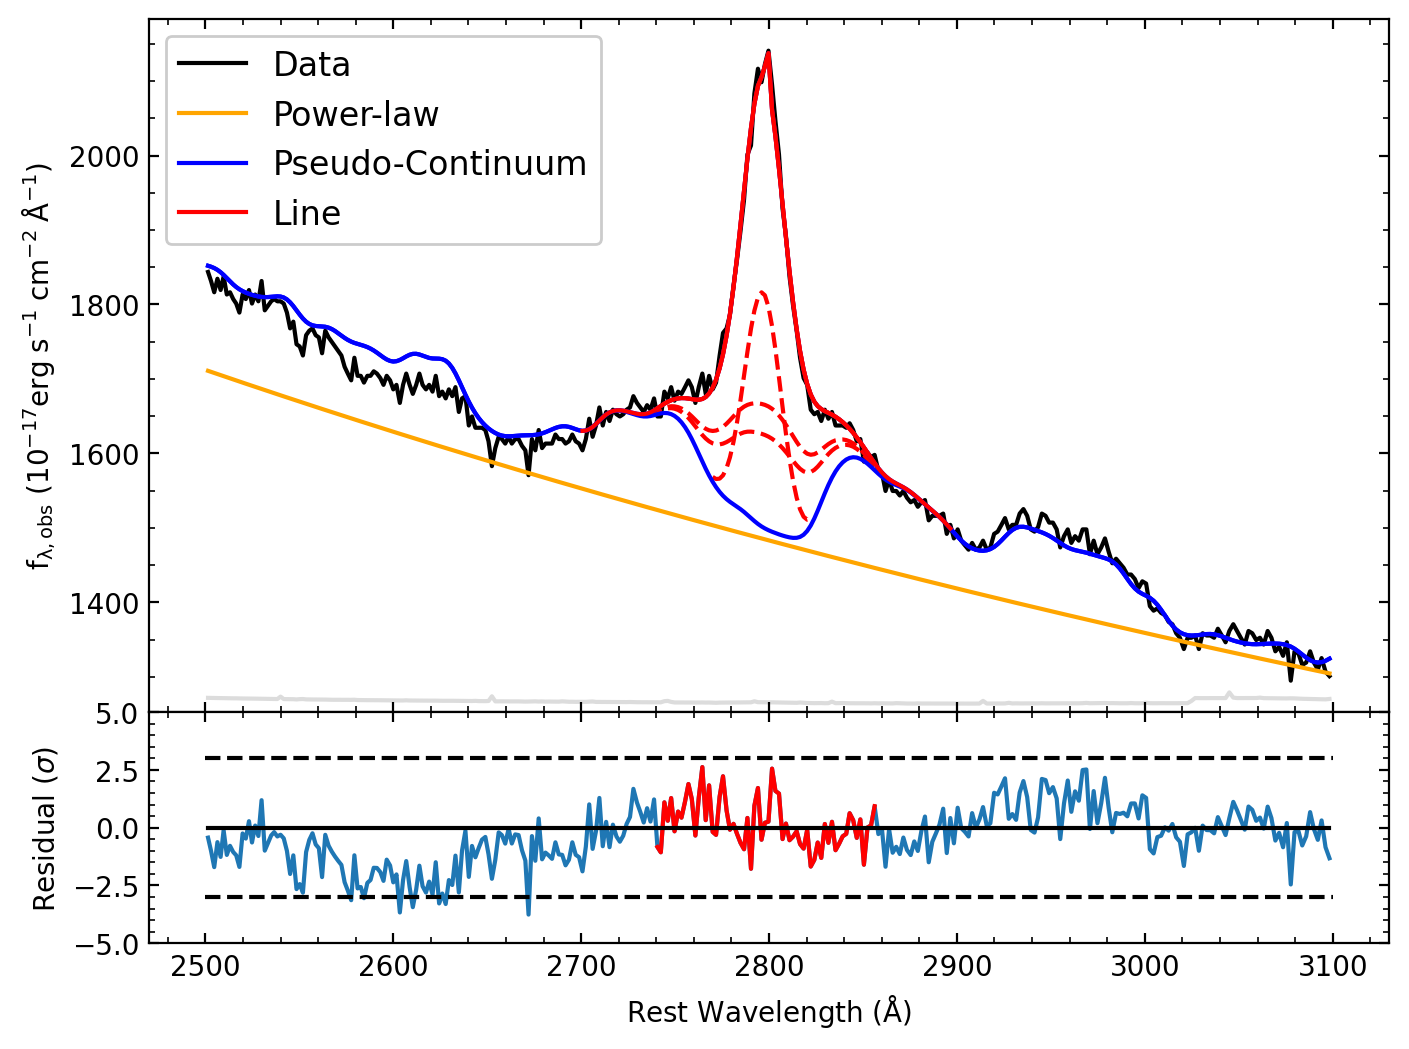
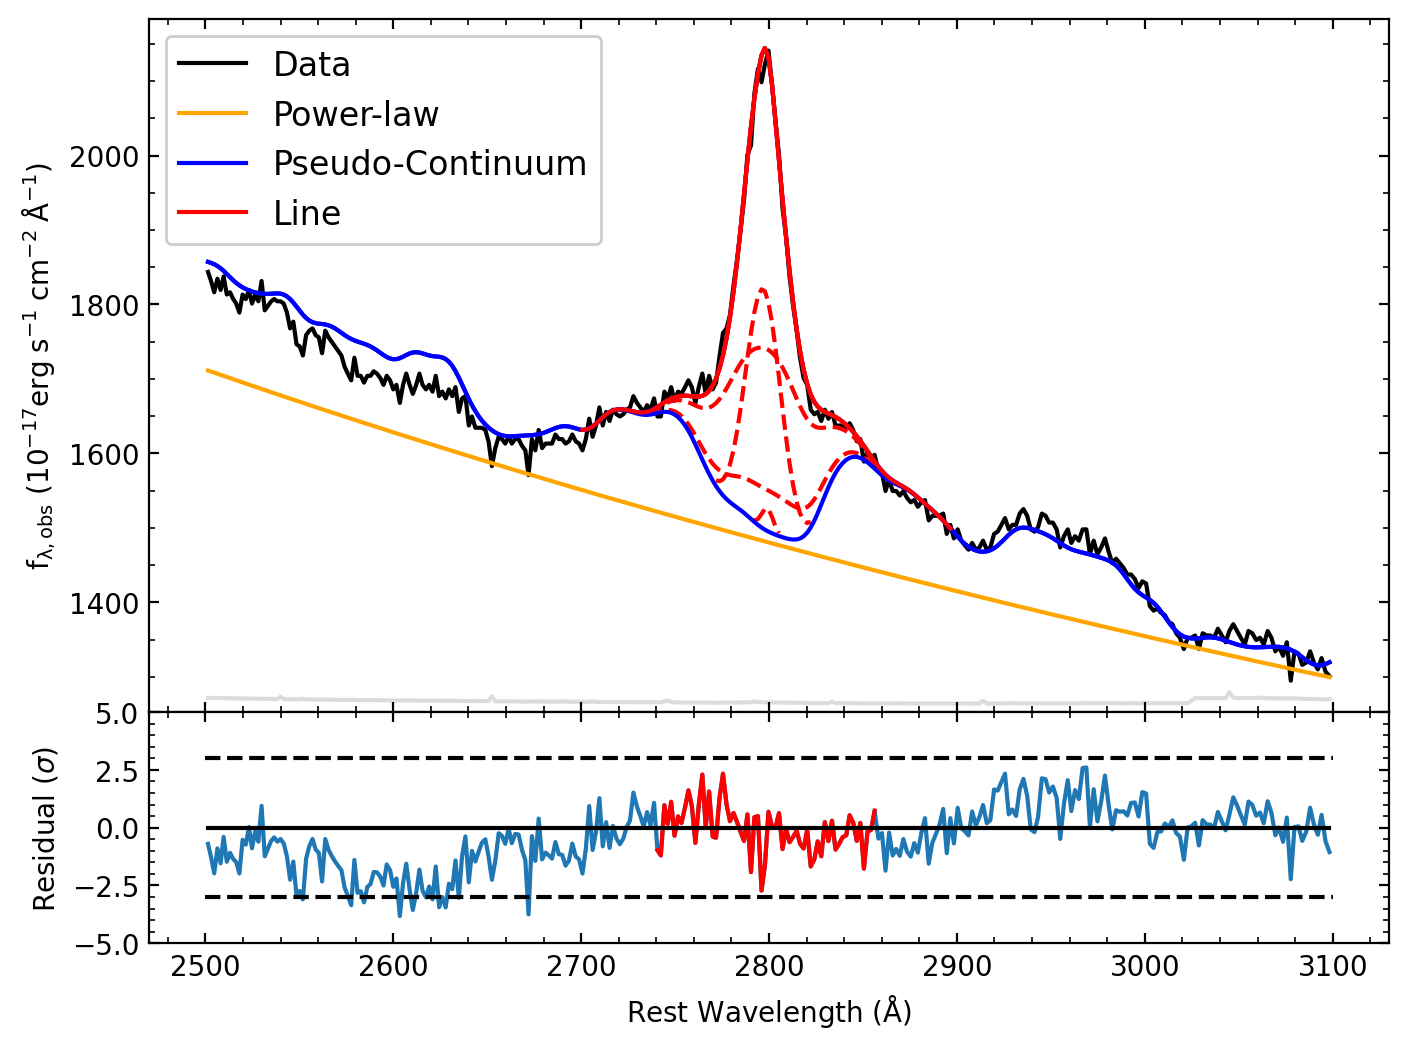
Expand parameter range

diff --git a/PyQSpecFit.py b/PyQSpecFit.py
@@ -294,15 +294,15 @@ class PyQSpecFit():
              pp[8:11]: norm, Te and Tau_e for the Balmer continuum at <3646 A
             """
         
-            tmp_parinfo = [{'name':'PL_Norm', 'limits': (0, 1E3), 'init_value': 1., 'fixed':False}, 
-                           {'name':'PL_Slope', 'limits': (-5, 3), 'init_value': 0., 'fixed':False}, 
-                           {'name':'Fe_UV_Norm', 'limits': (0., 1E3), 'init_value': 0., 'fixed':True}, 
-                           {'name':'Fe_UV_FWHM', 'limits': (1E3, 1E4), 'init_value': 3000., 'fixed':True}, 
+            tmp_parinfo = [{'name':'PL_Norm', 'limits': (0, 1E4), 'init_value': 1., 'fixed':False}, 
+                           {'name':'PL_Slope', 'limits': (-10, 5), 'init_value': 0., 'fixed':False}, 
+                           {'name':'Fe_UV_Norm', 'limits': (0., 1E4), 'init_value': 1E-6, 'fixed':True}, 
+                           {'name':'Fe_UV_FWHM', 'limits': (1E3, 2E4), 'init_value': 3000., 'fixed':True}, 
                            {'name':'Fe_UV_del', 'limits': (-0.02, 0.02), 'init_value': 0., 'fixed':True},
-                           {'name':'Fe_Opt_Norm', 'limits': (0., 1E3), 'init_value': 0., 'fixed':True}, 
-                           {'name':'Fe_Opt_FWHM', 'limits': (1E3, 1E4), 'init_value': 3000., 'fixed':True}, 
+                           {'name':'Fe_Opt_Norm', 'limits': (0., 1E4), 'init_value': 1E-6, 'fixed':True}, 
+                           {'name':'Fe_Opt_FWHM', 'limits': (1E3, 2E4), 'init_value': 3000., 'fixed':True}, 
                            {'name':'Fe_Opt_del', 'limits': (-0.02, 0.02), 'init_value': 0., 'fixed':True},
-                           {'name':'Balmer_norm', 'limits': (0., 10.), 'init_value': 0., 'fixed':True}, 
+                           {'name':'Balmer_norm', 'limits': (0., 10.), 'init_value': 1E-6, 'fixed':True}, 
                            {'name':'Balmer_Te', 'limits': (1E3, 5E4), 'init_value': 10000., 'fixed':True}, 
                            {'name':'Balmer_tau', 'limits': (0.1, 4.), 'init_value': 0.2, 'fixed':True}]
                            
@@ -366,8 +366,8 @@ class PyQSpecFit():
             for index, (lname, wave, norm, shift, slow, shigh) in enumerate(zip(line_names,line_wave,line_norms,line_shifts,sigma_lows,sigma_highs)):
                 # Line Parameters: Skew, Scale, Norm, Central Wavelength
                 line_parinfo = [{'name':'Skew_'+str(index), 'limits': (-10., 10.), 'init_value': 0., 'fixed': True}, 
-                                {'name':'Sigma_'+str(index), 'limits': (slow, shigh), 'init_value': (slow+shigh)/2.+(-1)**(index)*index*1E-6, 'fixed':False}, 
-                                {'name':'Norm_'+str(index), 'limits': (0, 1E2), 'init_value': norm+index*1E-6, 'fixed':False}, 
+                                {'name':'Sigma_'+str(index), 'limits': (slow, shigh), 'init_value': (slow+shigh)/2.+(-1)**(index)*index*(shigh-slow)/len(line_names), 'fixed':False}, 
+                                {'name':'Norm_'+str(index), 'limits': (0, 1E4), 'init_value': norm+index*1E-6, 'fixed':False}, 
                                 {'name':'Wavelength_'+str(index), 'limits': (wave+self.globalLineShift-shift, wave+self.globalLineShift+shift), 'init_value':wave+(-1)**(index)*index*1E-6, 'fixed':False}]
                 init_parinfo += line_parinfo
 
@@ -926,7 +926,6 @@ class PyQSpecFit():
         
         return result
 
-
     def eval_conti_all(self, p, xx):
         """
         Continuum components described by 14 parameters
@@ -948,7 +947,8 @@ class PyQSpecFit():
 
         ########################
         # General Line Fitting #
-        ########################    
+        ########################   
+    
     def eval_line_full(self, p, xx):
         # p = [Skew, Scale FWHM (km/s), Norm, Central Wavelength]
         scale_AA = self.fwhm_to_angstrom(p[1], p[3])

diff --git a/example.py b/example.py
@@ -4,7 +4,6 @@ import timeit
 
 start = timeit.default_timer()
 
-
 file = 'Run_Files/runFile.csv'
 
 example = PyQSpecFit.PyQSpecFit()
